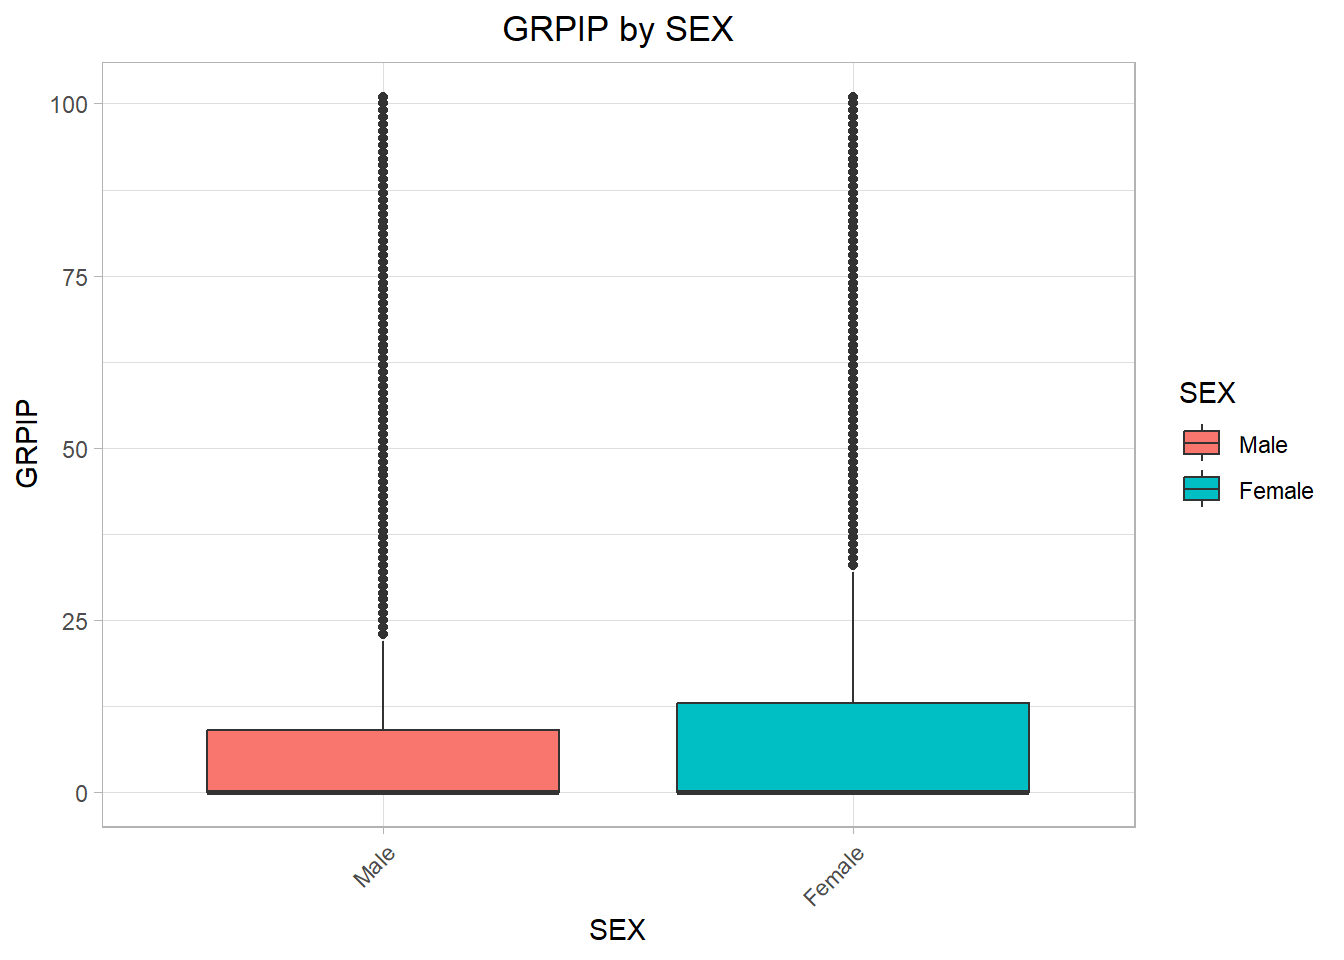
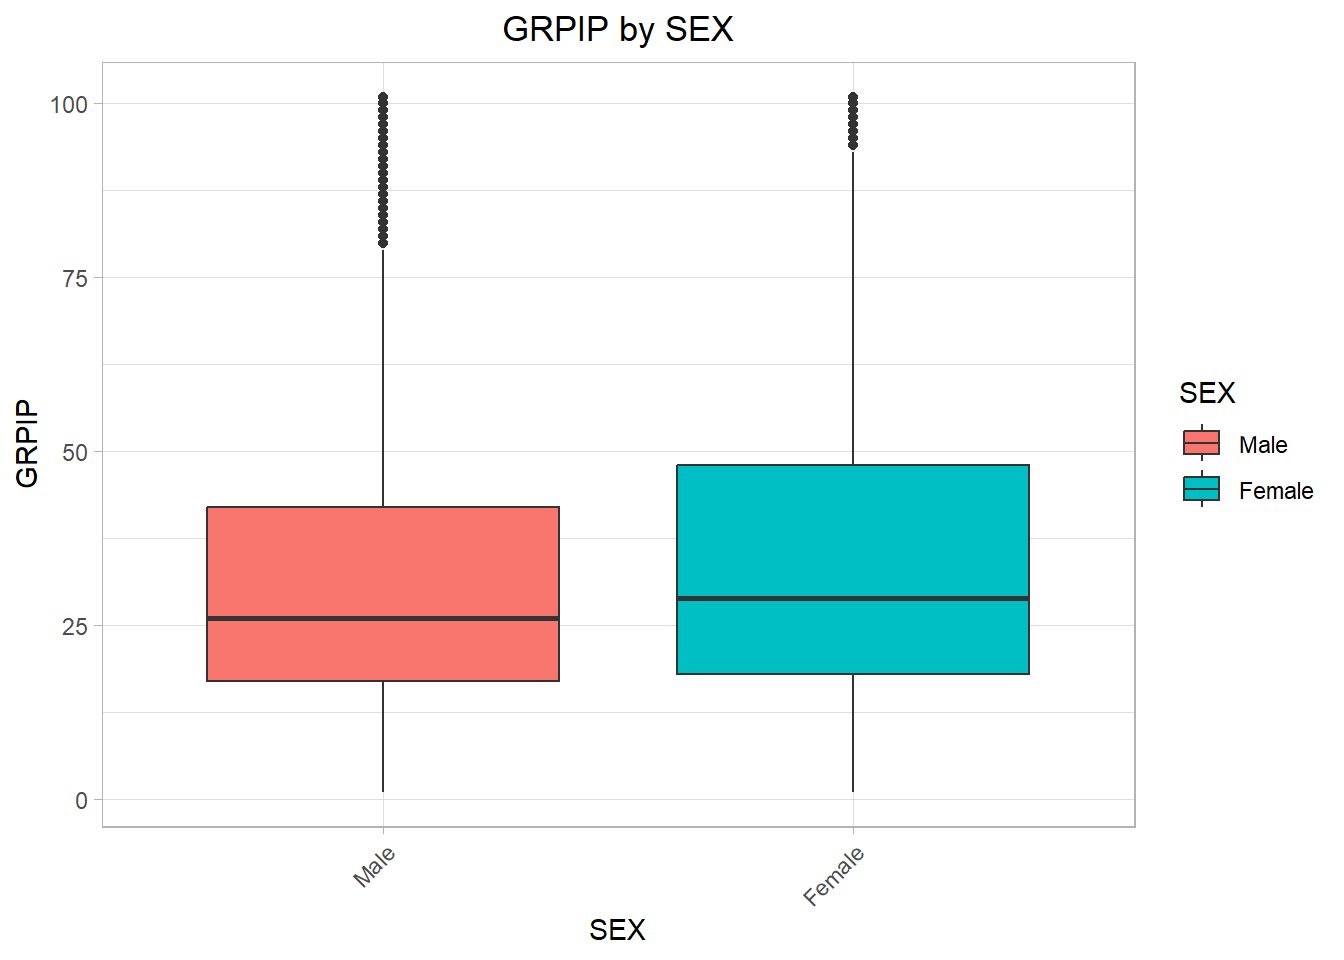
Dropped records with zero rent.

diff --git a/docs/Project1.html b/docs/Project1.html
@@ -1499,27 +1499,28 @@ $categorical$year
 <h3 class="anchored" data-anchor-id="investigation">Investigation</h3>
 <p>Investigate something interesting from the data using the functions above!</p>
 <p>For this investigation, we will look at the numeric variable GPIP, which represents “Gross rent as a percentage of household income past 12 months”.</p>
-<p>First, query the data.</p>
+<p>First, query the data. We will exclude people who are not renting and therefore have a value of zero in the data.</p>
 <div class="cell">
-<div class="code-copy-outer-scaffold"><div class="sourceCode cell-code" id="cb121"><pre class="sourceCode r code-with-copy"><code class="sourceCode r"><span id="cb121-1"><a href="#cb121-1" aria-hidden="true" tabindex="-1"></a>rent_data <span class="ot">&lt;-</span> <span class="fu">multiyear_query</span>(<span class="dv">2021</span><span class="sc">:</span><span class="dv">2024</span>, <span class="fu">c</span>(<span class="st">"PWGTP"</span>, <span class="st">"GRPIP"</span>), <span class="fu">c</span>(<span class="st">"SEX"</span>, <span class="st">"SCHL"</span>), <span class="st">"STATE"</span>, <span class="dv">37</span>)</span>
-<span id="cb121-2"><a href="#cb121-2" aria-hidden="true" tabindex="-1"></a></span>
-<span id="cb121-3"><a href="#cb121-3" aria-hidden="true" tabindex="-1"></a><span class="co">#view results</span></span>
-<span id="cb121-4"><a href="#cb121-4" aria-hidden="true" tabindex="-1"></a>rent_data</span></code></pre></div><button title="Copy to Clipboard" class="code-copy-button"><i class="bi"></i></button></div>
+<div class="code-copy-outer-scaffold"><div class="sourceCode cell-code" id="cb121"><pre class="sourceCode r code-with-copy"><code class="sourceCode r"><span id="cb121-1"><a href="#cb121-1" aria-hidden="true" tabindex="-1"></a>rent_data <span class="ot">&lt;-</span> <span class="fu">multiyear_query</span>(<span class="dv">2021</span><span class="sc">:</span><span class="dv">2024</span>, <span class="fu">c</span>(<span class="st">"PWGTP"</span>, <span class="st">"GRPIP"</span>), <span class="fu">c</span>(<span class="st">"SEX"</span>, <span class="st">"SCHL"</span>), <span class="st">"STATE"</span>, <span class="dv">37</span>) <span class="sc">|&gt;</span></span>
+<span id="cb121-2"><a href="#cb121-2" aria-hidden="true" tabindex="-1"></a>  <span class="fu">filter</span>(GRPIP <span class="sc">&gt;</span> <span class="dv">0</span>)</span>
+<span id="cb121-3"><a href="#cb121-3" aria-hidden="true" tabindex="-1"></a></span>
+<span id="cb121-4"><a href="#cb121-4" aria-hidden="true" tabindex="-1"></a><span class="co">#view results</span></span>
+<span id="cb121-5"><a href="#cb121-5" aria-hidden="true" tabindex="-1"></a>rent_data</span></code></pre></div><button title="Copy to Clipboard" class="code-copy-button"><i class="bi"></i></button></div>
 <div class="cell-output cell-output-stdout">
-<pre><code># A tibble: 439,757 × 6
+<pre><code># A tibble: 91,009 × 6
    PWGTP GRPIP SEX    SCHL                                         STATE   year 
    &lt;dbl&gt; &lt;dbl&gt; &lt;fct&gt;  &lt;fct&gt;                                        &lt;fct&gt;   &lt;chr&gt;
- 1    78     0 Male   1 or more years of college credit, no degree North … 2021 
- 2     9     0 Female Regular high school diploma                  North … 2021 
- 3    32     0 Female 1 or more years of college credit, no degree North … 2021 
- 4     6     0 Female 12th grade - no diploma                      North … 2021 
- 5   119     0 Male   1 or more years of college credit, no degree North … 2021 
- 6    65     0 Male   1 or more years of college credit, no degree North … 2021 
- 7    11     0 Male   1 or more years of college credit, no degree North … 2021 
- 8    67     0 Female Regular high school diploma                  North … 2021 
- 9    19     0 Male   1 or more years of college credit, no degree North … 2021 
-10   100     0 Male   1 or more years of college credit, no degree North … 2021 
-# ℹ 439,747 more rows</code></pre>
+ 1   228    16 Female Associate's degree                           North … 2021 
+ 2   405    16 Male   Grade 8                                      North … 2021 
+ 3    84    12 Male   1 or more years of college credit, no degree North … 2021 
+ 4    60    29 Male   GED or alternative credential                North … 2021 
+ 5    43    80 Female Grade 6                                      North … 2021 
+ 6   511    12 Female Master's degree                              North … 2021 
+ 7    85    22 Male   1 or more years of college credit, no degree North … 2021 
+ 8   121    22 Male   1 or more years of college credit, no degree North … 2021 
+ 9   120    22 Male   1 or more years of college credit, no degree North … 2021 
+10   120    22 Male   Regular high school diploma                  North … 2021 
+# ℹ 90,999 more rows</code></pre>
 </div>
 </div>
 <p>Look at a summary of the data.</p>
@@ -1529,47 +1530,47 @@ $categorical$year
 <pre><code>$numeric
 $numeric$GRPIP
 sample_mean   sample_sd 
-    9.84008    21.16603 
+   36.15681    26.35574 
 
 
 $categorical
 $categorical$SEX
 # A tibble: 2 × 2
-  SEX       count
-  &lt;fct&gt;     &lt;dbl&gt;
-1 Male   21081988
-2 Female 22049662
+  SEX      count
+  &lt;fct&gt;    &lt;dbl&gt;
+1 Male   5560114
+2 Female 6178169
 
 $categorical$SCHL
 # A tibble: 25 × 2
    SCHL                                             count
    &lt;fct&gt;                                            &lt;dbl&gt;
- 1 Regular high school diploma                    7561590
- 2 No schooling completed                         1407630
- 3 Grade 1                                         506482
- 4 Kindergarten                                    529092
- 5 Grade 4                                         564748
- 6 Professional degree beyond a bachelor's degree  604210
- 7 1 or more years of college credit, no degree   4817260
- 8 Master's degree                                3049810
- 9 Grade 7                                         643558
-10 Associate's degree                             3272860
+ 1 Regular high school diploma                    2143097
+ 2 No schooling completed                          534313
+ 3 Grade 1                                         168484
+ 4 Kindergarten                                    168987
+ 5 Grade 4                                         173441
+ 6 Professional degree beyond a bachelor's degree   97843
+ 7 1 or more years of college credit, no degree   1431971
+ 8 Master's degree                                 587918
+ 9 Grade 7                                         197467
+10 Associate's degree                              768047
 # ℹ 15 more rows
 
 $categorical$STATE
 # A tibble: 1 × 2
   STATE                count
   &lt;fct&gt;                &lt;dbl&gt;
-1 North Carolina/NC 43131650
+1 North Carolina/NC 11738283
 
 $categorical$year
 # A tibble: 4 × 2
-  year     count
-  &lt;chr&gt;    &lt;dbl&gt;
-1 2021  10551162
-2 2022  10698973
-3 2023  10835491
-4 2024  11046024</code></pre>
+  year    count
+  &lt;chr&gt;   &lt;dbl&gt;
+1 2021  2879728
+2 2022  2879236
+3 2023  2979043
+4 2024  3000276</code></pre>
 </div>
 <div class="code-copy-outer-scaffold"><div class="sourceCode cell-code" id="cb125"><pre class="sourceCode r code-with-copy"><code class="sourceCode r"><span id="cb125-1"><a href="#cb125-1" aria-hidden="true" tabindex="-1"></a><span class="co">#Summarize year specifically:</span></span>
 <span id="cb125-2"><a href="#cb125-2" aria-hidden="true" tabindex="-1"></a><span class="fu">summary</span>(rent_data, <span class="at">cvar =</span> <span class="st">"year"</span>)</span></code></pre></div><button title="Copy to Clipboard" class="code-copy-button"><i class="bi"></i></button></div>
@@ -1577,18 +1578,18 @@ $categorical$year
 <pre><code>$numeric
 $numeric$GRPIP
 sample_mean   sample_sd 
-    9.84008    21.16603 
+   36.15681    26.35574 
 
 
 $categorical
 $categorical$year
 # A tibble: 4 × 2
-  year     count
-  &lt;chr&gt;    &lt;dbl&gt;
-1 2021  10551162
-2 2022  10698973
-3 2023  10835491
-4 2024  11046024</code></pre>
+  year    count
+  &lt;chr&gt;   &lt;dbl&gt;
+1 2021  2879728
+2 2022  2879236
+3 2023  2979043
+4 2024  3000276</code></pre>
 </div>
 <div class="code-copy-outer-scaffold"><div class="sourceCode cell-code" id="cb127"><pre class="sourceCode r code-with-copy"><code class="sourceCode r"><span id="cb127-1"><a href="#cb127-1" aria-hidden="true" tabindex="-1"></a><span class="co">#Summarize GRPIP and SCHL specifically:</span></span>
 <span id="cb127-2"><a href="#cb127-2" aria-hidden="true" tabindex="-1"></a><span class="fu">summary</span>(rent_data, <span class="st">"GRPIP"</span>, <span class="st">"SCHL"</span>)</span></code></pre></div><button title="Copy to Clipboard" class="code-copy-button"><i class="bi"></i></button></div>
@@ -1596,7 +1597,7 @@ $categorical$year
 <pre><code>$numeric
 $numeric$GRPIP
 sample_mean   sample_sd 
-    9.84008    21.16603 
+   36.15681    26.35574 
 
 
 $categorical
@@ -1604,16 +1605,16 @@ $categorical$SCHL
 # A tibble: 25 × 2
    SCHL                                             count
    &lt;fct&gt;                                            &lt;dbl&gt;
- 1 Regular high school diploma                    7561590
- 2 No schooling completed                         1407630
- 3 Grade 1                                         506482
- 4 Kindergarten                                    529092
- 5 Grade 4                                         564748
- 6 Professional degree beyond a bachelor's degree  604210
- 7 1 or more years of college credit, no degree   4817260
- 8 Master's degree                                3049810
- 9 Grade 7                                         643558
-10 Associate's degree                             3272860
+ 1 Regular high school diploma                    2143097
+ 2 No schooling completed                          534313
+ 3 Grade 1                                         168484
+ 4 Kindergarten                                    168987
+ 5 Grade 4                                         173441
+ 6 Professional degree beyond a bachelor's degree   97843
+ 7 1 or more years of college credit, no degree   1431971
+ 8 Master's degree                                 587918
+ 9 Grade 7                                         197467
+10 Associate's degree                              768047
 # ℹ 15 more rows</code></pre>
 </div>
 </div>
@@ -1642,6 +1643,9 @@ $categorical$SCHL
 </div>
 </div>
 <div class="code-copy-outer-scaffold"><div class="sourceCode cell-code" id="cb131"><pre class="sourceCode r code-with-copy"><code class="sourceCode r"><span id="cb131-1"><a href="#cb131-1" aria-hidden="true" tabindex="-1"></a><span class="fu">plot</span>(rent_data, <span class="st">"GRPIP"</span>, <span class="st">"year"</span>)</span></code></pre></div><button title="Copy to Clipboard" class="code-copy-button"><i class="bi"></i></button></div>
+<div class="cell-output cell-output-stderr">
+<pre><code>Warning in rq.fit.br(wx, wy, tau = tau, ...): Solution may be nonunique</code></pre>
+</div>
 <div class="cell-output-display">
 <div>
 <figure class="figure">
